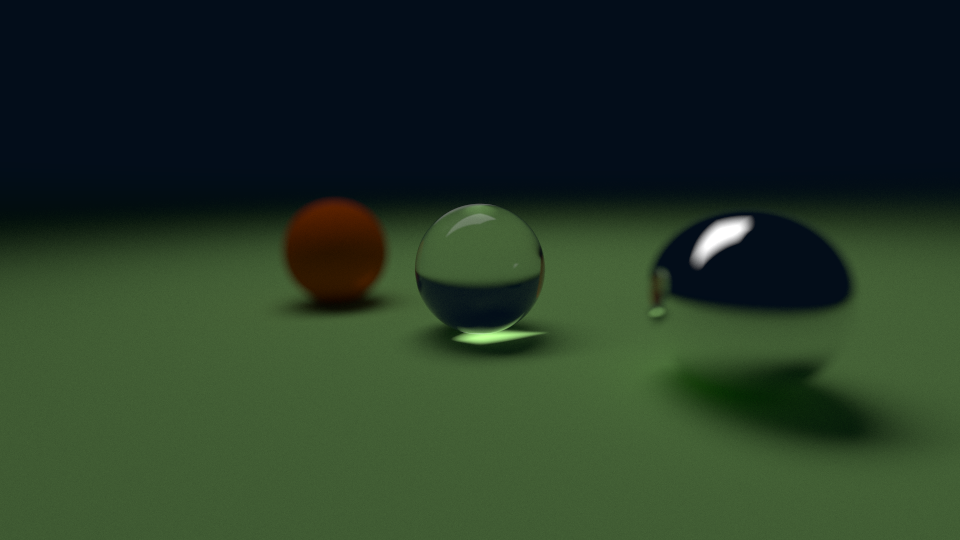
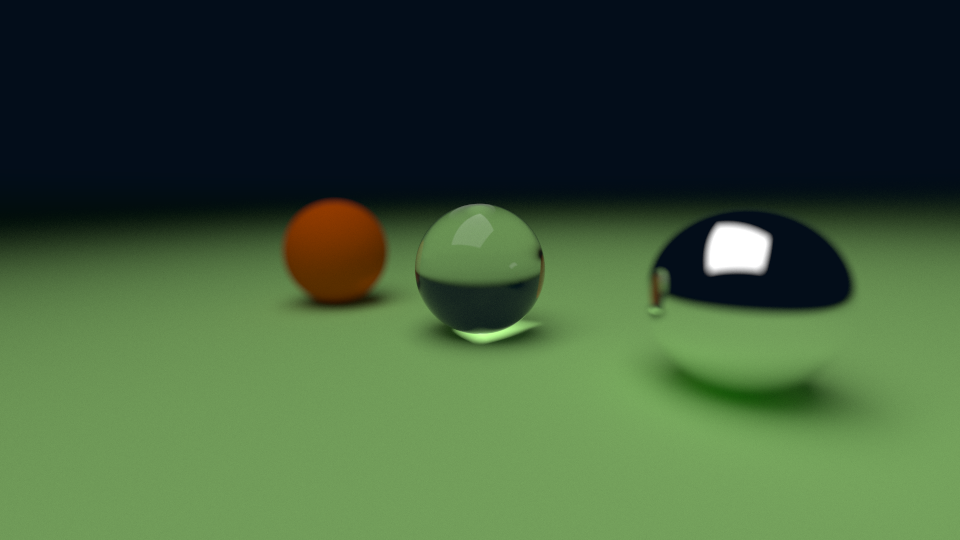
Make it lighter.

diff --git a/examples/depth_of_field/src/dof_scene.rs b/examples/depth_of_field/src/dof_scene.rs
@@ -17,19 +17,11 @@ pub fn create_scene<R: Rng + 'static>() -> Scene<R> {
 
     let light_material = Lambertian::new(Spectrum::zeros(), Spectrum::new([1.5, 1.5, 1.5].into()));
     let light = Quad::new(
-        [-10.0, 10.0, -0.0].into(),
-        [10.0, 10.0, -0.0].into(),
-        [10.0, 10.0, 10.0].into(),
+        [-10.0, 10.0, -5.0].into(),
+        [10.0, 10.0, -15.0].into(),
+        [10.0, 10.0, 15.0].into(),
         light_material,
     );
-
-    // let camera = PinholeCamera::new(
-    //     &[0.0, 1.5, -5.0].into(),
-    //     &[0.0, 0.7, 0.0].into(),
-    //     &[0.0, 1.0, 0.0].into(),
-    //     1920.0 / 1080.0,
-    //     60.0_f32.to_radians(),
-    // );
 
     let camera = ThinLensCamera::new(
         &[0.0, 1.5, -5.0].into(),
@@ -37,7 +29,7 @@ pub fn create_scene<R: Rng + 'static>() -> Scene<R> {
         &[0.0, 1.0, 0.0].into(),
         1920.0 / 1080.0,
         60.0_f32.to_radians(),
-        0.5,
+        0.4,
         5.0,
     );
 
